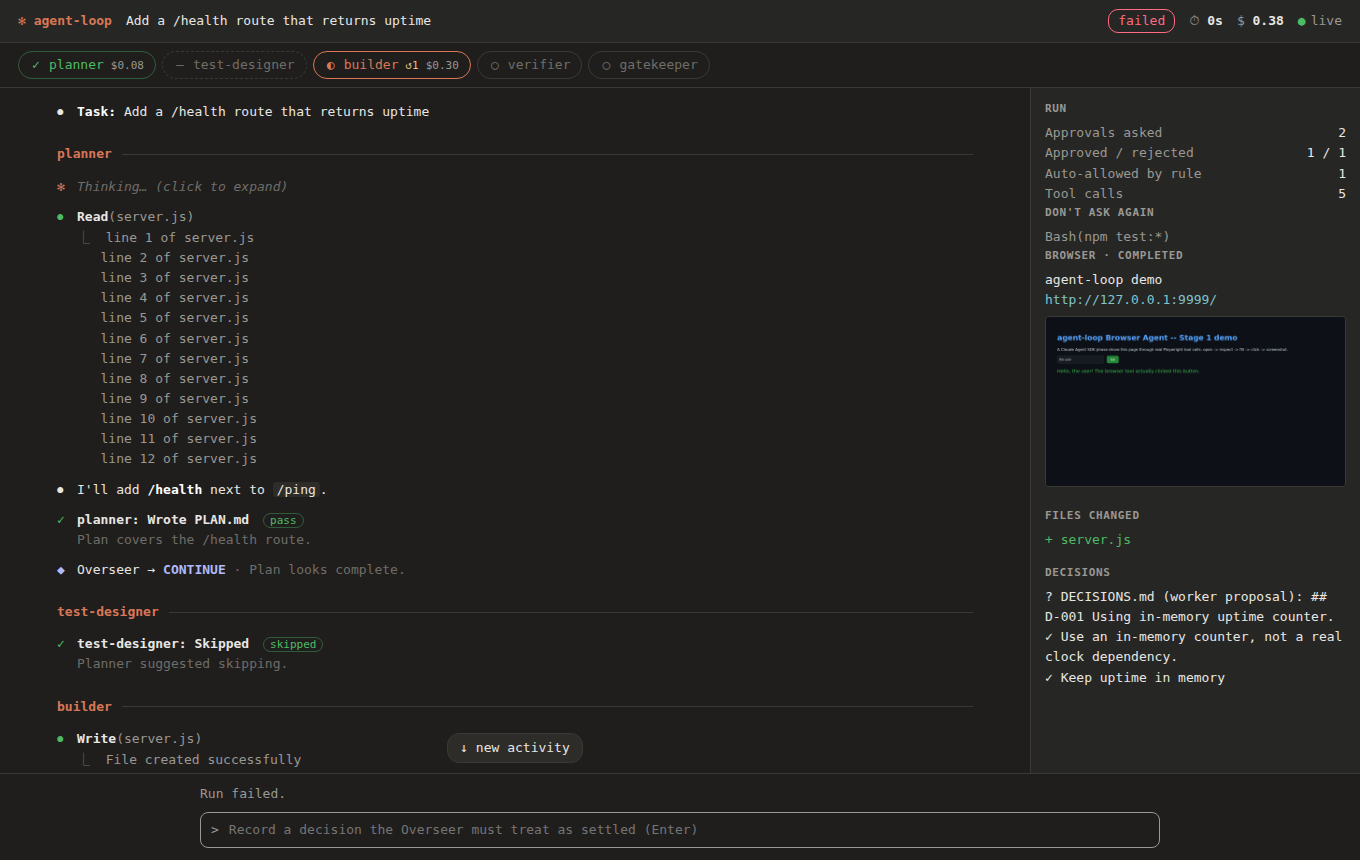
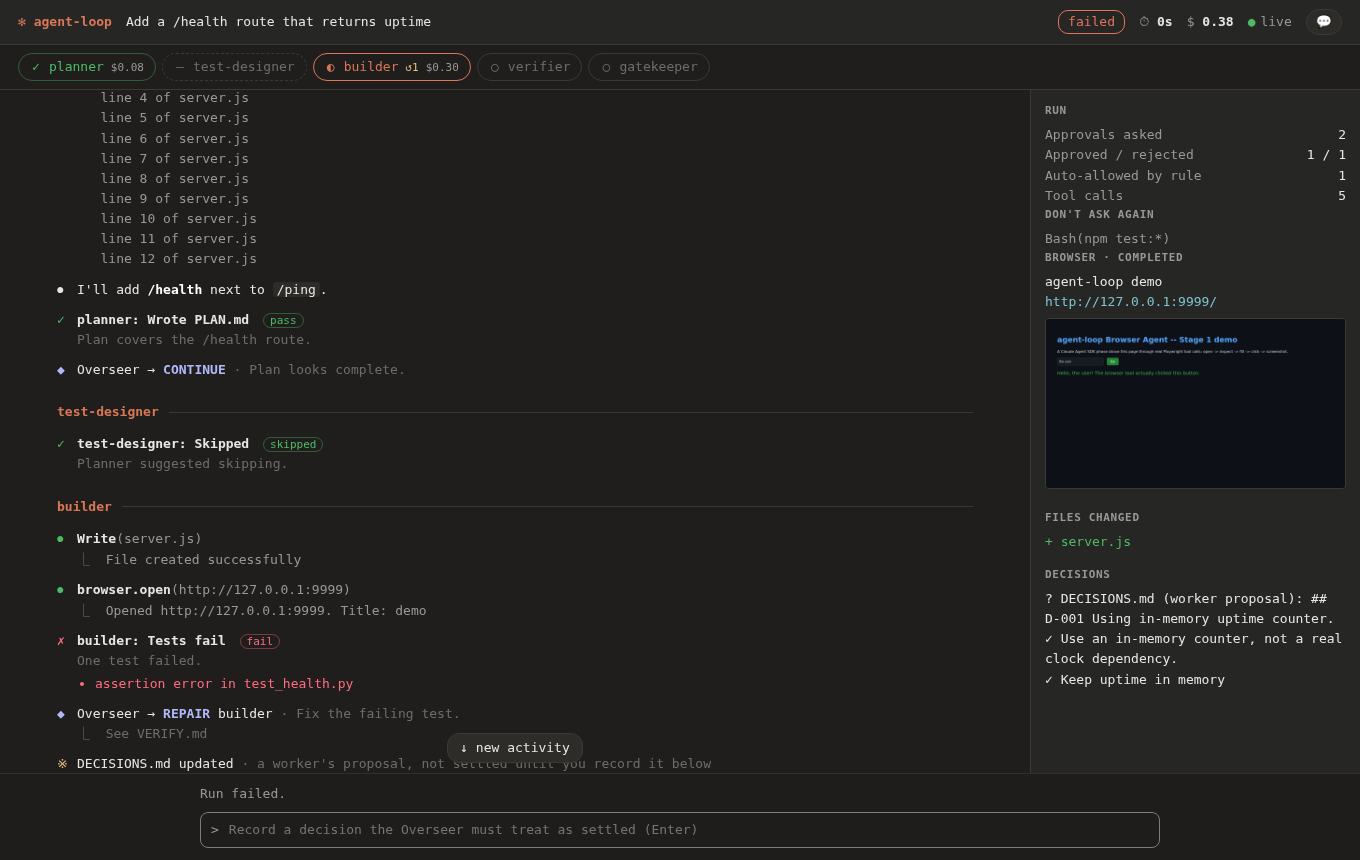
Add Desktop theme, smoother motion, and per-phase approval visibility
Three related additions to ui/index.html, all opt-in restyling and
new indicators on top of the existing dashboard -- same DOM, same
events, same behavior, no changes to src/terminal.ts or the pipeline:

- A second "Desktop" theme (light, rounded avatar-badge cards,
  sans-serif), toggled from the header and persisted per-browser in
  localStorage, via :root[data-theme="desktop"] CSS.
- Smoother motion throughout: new transcript blocks and the
  permission sheet ease in instead of popping, interactive elements
  transition instead of snapping, themes cross-fade. Respects
  prefers-reduced-motion. The permission dock is translucent and
  backdrop-blurred (macOS vibrancy) in both themes instead of a flat
  opaque bar.
- Which phase has an approval waiting is now visible without
  scrolling to the dock: a count badge on the stepper, a soft glow on
  the exact waiting tool-call line(s), and a per-phase breakdown in
  the dock's count line. Checked against pipeline.ts's actual control
  flow first -- phases run strictly sequentially, so only one phase
  can ever have pending approvals, but that phase can genuinely have
  several at once from real parallel tool calls, which the original
  demo screenshot didn't actually depict correctly (it showed two
  different phases waiting at once, which can't happen); corrected
  before documenting it. Also redone from an initial harsh bright-
  yellow outline to a soft glow in the accent color already used
  throughout, after review.
[…]

diff --git a/ui/index.html b/ui/index.html
@@ -46,6 +46,20 @@
   .step[data-state="skipped"] { color: var(--faint); border-style: dashed; }
   .step .badge { font-size: 11px; color: var(--yellow); }
   .step .cost { font-size: 11px; color: var(--dim); }
+  /* Which phase has an approval waiting is visible on the stepper itself, not just at the bottom
+     dock (which only ever shows one prompt at a time). Phases run strictly sequentially
+     (pipeline.ts awaits each one before starting the next), so this only ever lights up the single
+     active phase -- but that phase alone can have several calls waiting at once (real parallel tool
+     use in one assistant turn each fires its own approval-request before any of them resolve), and
+     the count badge is what actually surfaces that. Styled as a soft ambient glow in the same
+     accent color already used throughout, not a hard outline -- present enough to catch the eye,
+     quiet enough to sit next to five other steps without shouting. */
+  .step[data-waiting="1"] { animation: pulse-glow 2.2s ease-in-out infinite; }
+  .wait-badge {
+    display: inline-flex; align-items: center; justify-content: center; min-width: 14px; height: 14px;
+    padding: 0 3px; border-radius: 999px; background: var(--accent); color: #fff;
+    font-size: 10px; font-weight: 700; line-height: 1;
+  }
 
   /* body: transcript + side panel */
   .body { flex: 1; min-height: 0; display: flex; }
@@ -67,7 +81,7 @@
   @media (max-width: 1000px) { aside { display: none; } }
 
   /* transcript blocks */
-  .blk { margin: 0 0 10px; padding-left: 20px; position: relative; white-space: pre-wrap; word-break: break-word; }
+  .blk { margin: 0 0 10px; padding-left: 20px; position: relative; white-space: pre-wrap; word-break: break-word; animation: blk-in .2s ease-out; }
   .blk::before { position: absolute; left: 0; top: 0; }
   .blk.text::before { content: "⏺"; color: var(--text); }
   .blk.tool::before { content: "⏺"; color: var(--accent); }
@@ -108,10 +122,16 @@
   #jump { display: none; position: sticky; bottom: 10px; margin: 0 auto; width: max-content; padding: 4px 12px; border-radius: 12px; border: 1px solid var(--line); background: var(--panel-2); cursor: pointer; }
   #jump.show { display: block; }
 
-  /* bottom dock: permission prompt or status line + decision input */
-  #dock { flex: none; border-top: 1px solid var(--line); background: var(--bg); padding: 10px 22px 12px; }
+  /* bottom dock: permission prompt or status line + decision input. Translucent + blurred (macOS
+     sheet/vibrancy style) rather than a flat opaque bar, so it reads as floating over the transcript
+     instead of abruptly cutting it off when a prompt appears. */
+  #dock {
+    flex: none; padding: 10px 22px 12px;
+    background: rgba(31, 30, 29, .74); border-top: 1px solid rgba(255, 255, 255, .08);
+    backdrop-filter: blur(20px) saturate(1.4); -webkit-backdrop-filter: blur(20px) saturate(1.4);
+  }
   #dock .inner { max-width: 960px; margin: 0 auto; }
-  .prompt { border: 1px solid var(--blue); border-radius: 8px; padding: 10px 14px; }
+  .prompt { border: 1px solid var(--blue); border-radius: 8px; padding: 10px 14px; animation: sheet-in .22s cubic-bezier(.16,1,.3,1); }
   .prompt .title { color: var(--blue); font-weight: 700; }
   .prompt .count { color: var(--dim); float: right; }
   .prompt .body { margin: 8px 0; padding: 8px 10px; background: var(--panel); border-radius: 6px; max-height: 34vh; overflow: auto; white-space: pre-wrap; word-break: break-word; }
@@ -133,6 +153,97 @@
   input[type=text] { flex: 1; background: none; border: 0; outline: none; color: var(--text); font: inherit; }
   .inputrow:focus-within { border-color: var(--dim); }
   .smallbtn { background: var(--panel-2); border: 1px solid var(--line); border-radius: 6px; padding: 2px 10px; cursor: pointer; }
+  #theme-toggle { background: var(--panel-2); border: 1px solid var(--line); border-radius: 999px; padding: 2px 9px; cursor: pointer; font: inherit; }
+
+  /* ---------- "Desktop" theme: a lighter, Claude-Desktop-style chat-card look, opt-in via the
+     header toggle (persisted in localStorage). Overriding the color/font custom properties above
+     handles most of it for free, since body/header/stepper/aside/dock already read them; the rest
+     is restyling the transcript's flat "⏺ line" blocks into rounded avatar-badge cards. */
+  :root[data-theme="desktop"] {
+    color-scheme: light;
+    --bg: #f7f5f2; --panel: #ffffff; --panel-2: #efebe4; --line: #e6e0d6;
+    --text: #2b2924; --dim: #6e685d; --faint: #a39c8c;
+    --accent: #cc7c52; --green: #2f8f52; --red: #d64545; --yellow: #a9790a; --blue: #4f5fd1; --cyan: #1f8a92;
+    --mono: -apple-system, BlinkMacSystemFont, "Segoe UI", Inter, Helvetica, Arial, sans-serif;
+  }
+  :root[data-theme="desktop"] header { box-shadow: 0 1px 3px rgba(0,0,0,.05); }
+  :root[data-theme="desktop"] .brand { font-weight: 800; }
+  :root[data-theme="desktop"] #stepper { box-shadow: 0 1px 3px rgba(0,0,0,.04); }
+  :root[data-theme="desktop"] .step { border-radius: 999px; background: var(--panel-2); }
+  :root[data-theme="desktop"] .step[data-state="active"] { background: #fbe7dc; }
+  :root[data-theme="desktop"] .step[data-state="pass"] { background: #e5f4ea; }
+  :root[data-theme="desktop"] .step[data-state="fail"] { background: #fbe4e4; }
+  :root[data-theme="desktop"] #transcript { max-width: 760px; }
+  :root[data-theme="desktop"] .blk {
+    background: var(--panel); border: 1px solid var(--line); border-radius: 16px;
+    padding: 14px 16px 14px 48px; box-shadow: 0 1px 2px rgba(0,0,0,.03); margin-bottom: 14px;
+  }
+  :root[data-theme="desktop"] .blk::before {
+    top: 14px; left: 14px; width: 24px; height: 24px; border-radius: 50%;
+    display: flex; align-items: center; justify-content: center; font-size: 12px; line-height: 1;
+    background: var(--panel-2); color: var(--text);
+  }
+  :root[data-theme="desktop"] .blk.text::before { background: var(--accent); color: #fff; }
+  :root[data-theme="desktop"] .blk.tool::before { background: #eceeff; color: var(--blue); }
+  :root[data-theme="desktop"] .blk.tool.ok::before { background: #e5f4ea; color: var(--green); }
+  :root[data-theme="desktop"] .blk.tool.err::before, :root[data-theme="desktop"] .blk.tool.denied::before { background: #fbe4e4; color: var(--red); }
+  :root[data-theme="desktop"] .blk.verdict::before { background: #e5f4ea; color: var(--green); }
+  :root[data-theme="desktop"] .blk.verdict.fail::before { background: #fbe4e4; color: var(--red); }
+  :root[data-theme="desktop"] .blk.overseer::before { background: #eceeff; color: var(--blue); }
+  :root[data-theme="desktop"] .blk.note::before { background: #fbf1d8; color: var(--yellow); }
+  :root[data-theme="desktop"] .blk.trusted::before { background: #e5f4ea; color: var(--green); }
+  :root[data-theme="desktop"] .blk.thinking { background: transparent; border: none; box-shadow: none; padding: 0 0 0 30px; }
+  :root[data-theme="desktop"] .blk.thinking::before { position: absolute; background: none; width: auto; height: auto; border-radius: 0; top: 0; left: 0; font-size: 14px; }
+  :root[data-theme="desktop"] .blk.run-end { padding: 14px 18px; }
+  :root[data-theme="desktop"] .out { background: var(--panel-2); border-radius: 10px; padding: 8px 10px; margin-top: 6px; }
+  :root[data-theme="desktop"] .tag { border-radius: 999px; }
+  :root[data-theme="desktop"] #dock {
+    background: rgba(247, 245, 242, .55); border-top: 1px solid rgba(0, 0, 0, .05);
+    backdrop-filter: blur(16px) saturate(1.5); -webkit-backdrop-filter: blur(16px) saturate(1.5);
+  }
+  :root[data-theme="desktop"] .prompt {
+    border: 1px solid rgba(0, 0, 0, .06); border-radius: 18px;
+    background: rgba(255, 255, 255, .72); box-shadow: 0 8px 30px rgba(0, 0, 0, .12);
+    backdrop-filter: blur(20px) saturate(1.6); -webkit-backdrop-filter: blur(20px) saturate(1.6);
+  }
+  :root[data-theme="desktop"] .prompt .body { background: rgba(239, 235, 228, .75); }
+  :root[data-theme="desktop"] .opt { border-radius: 10px; padding: 6px 10px 6px 26px; }
+  :root[data-theme="desktop"] .opt:hover, :root[data-theme="desktop"] .opt.sel { background: var(--panel-2); }
+  :root[data-theme="desktop"] .inputrow { border-radius: 999px; background: var(--panel); box-shadow: 0 1px 3px rgba(0,0,0,.06); border-color: transparent; }
+  :root[data-theme="desktop"] aside { border-left: none; box-shadow: -1px 0 3px rgba(0,0,0,.03); }
+
+  /* ---------- motion: smooth without being distracting. New blocks and the permission sheet ease
+     in instead of popping; interactive elements transition instead of snapping; switching themes
+     cross-fades the colors instead of flashing. All of it collapses to nothing for anyone who's
+     asked their OS for reduced motion. */
+  @keyframes blk-in { from { opacity: 0; transform: translateY(4px); } to { opacity: 1; transform: translateY(0); } }
+  @keyframes sheet-in { from { opacity: 0; transform: translateY(10px) scale(.98); } to { opacity: 1; transform: translateY(0) scale(1); } }
+  @keyframes pulse-glow { 0%, 100% { box-shadow: 0 0 0 0 rgba(217, 119, 87, 0); } 50% { box-shadow: 0 0 10px 1px rgba(217, 119, 87, .38); } }
+  .step[data-waiting="1"] { border-color: var(--accent); }
+  /* The exact tool call a pending approval is for, highlighted in the transcript -- not just the
+     stepper badge and the bottom dock, so it's unambiguous which line an approval belongs to even
+     with several tool calls on screen. A thin accent-colored bar that gently breathes, not a ring
+     around the whole line -- present, not loud. */
+  .blk.tool.awaiting { animation: blk-in .2s ease-out, pulse-glow-blk 2.2s ease-in-out infinite; }
+  @keyframes pulse-glow-blk { 0%, 100% { box-shadow: -2px 0 0 0 rgba(217, 119, 87, .5); } 50% { box-shadow: -2px 0 8px 1px rgba(217, 119, 87, .38); } }
+  html { transition: background-color .25s ease; }
+  body, header, #stepper, aside, #dock, .step, .blk, .tag, .opt, .smallbtn, #theme-toggle,
+  #run-state, .inputrow, #jump {
+    transition: background-color .2s ease, border-color .2s ease, color .2s ease, box-shadow .2s ease;
+  }
+  .step, .opt, .smallbtn, #theme-toggle, #jump, button {
+    transition: background-color .15s ease, color .15s ease, border-color .15s ease, transform .1s ease;
+  }
+  .step:hover { transform: translateY(-1px); }
+  .opt:active, .smallbtn:active, #theme-toggle:active { transform: scale(.96); }
+  #theme-toggle { transition: background-color .15s ease, transform .15s ease, opacity .15s ease; }
+  #theme-toggle:hover { opacity: .85; }
+  @media (prefers-reduced-motion: reduce) {
+    *, *::before, *::after {
+      animation-duration: .001ms !important; animation-iteration-count: 1 !important;
+      transition-duration: .001ms !important; scroll-behavior: auto !important;
+    }
+  }
 </style>
 </head>
 <body>
@@ -143,6 +254,7 @@
   <span class="stat">⏱ <b id="elapsed">0s</b></span>
   <span class="stat">$ <b id="cost">0.00</b></span>
   <span id="status">connecting…</span>
+  <button id="theme-toggle" type="button" title="Switch look">💬</button>
 </header>
 <nav id="stepper"></nav>
 <div class="body">
@@ -251,7 +363,11 @@ function renderStepper() {
     const icon = { pending: "○", active: "◐", pass: "✓", fail: "✗", skipped: "–" }[st];
     const reps = state.repairs[p] ? '<span class="badge">↺' + state.repairs[p] + "</span>" : "";
     const cost = state.phaseCost[p] ? '<span class="cost">$' + state.phaseCost[p].toFixed(2) + "</span>" : "";
-    return '<button class="step" data-phase="' + p + '" data-state="' + st + '"><span class="icon">' + icon + "</span>" + p + reps + cost + "</button>";
+    // A phase with an approval waiting gets its own badge on the stepper -- which agent needs you
+    // should be visible at a glance, not just at the bottom dock (which only ever shows one at a time).
+    const waitingHere = state.pending.filter((x) => x.phase === p).length;
+    const flag = waitingHere ? '<span class="wait-badge" title="' + waitingHere + " approval" + (waitingHere > 1 ? "s" : "") + ' waiting">' + (waitingHere > 1 ? waitingHere : "!") + "</span>" : "";
+    return '<button class="step" data-phase="' + p + '" data-state="' + st + '"' + (waitingHere ? ' data-waiting="1"' : "") + '><span class="icon">' + icon + "</span>" + p + reps + cost + flag + "</button>";
   }).join("");
 }
 $("stepper").addEventListener("click", (e) => {
@@ -338,9 +454,18 @@ function renderDock() {
     ["deny", "No, and tell the agent what to do differently <span class=\"k\">(esc)</span>"],
   ];
   state.sel = Math.min(state.sel, opts.length - 1);
+  // Break the queue down by phase, not just a bare count. In practice this is almost always one
+  // phase repeated (phases run strictly sequentially, so the queue is never split across phases;
+  // it's parallel tool calls within the one active phase that stack up, e.g. "3 waiting —
+  // builder ×3"), but naming it -- rather than a bare "1 of 3" -- makes that fact visible instead
+  // of implied, and the grouped form still reads correctly on the rare multi-phase edge case too.
+  const phaseCounts = {};
+  for (const p of state.pending) phaseCounts[p.phase] = (phaseCounts[p.phase] || 0) + 1;
+  const breakdown = Object.entries(phaseCounts).map(([ph, n]) => ph + (n > 1 ? " ×" + n : "")).join(", ");
+  const countLabel = state.pending.length > 1 ? state.pending.length + " waiting — " + breakdown : "";
   dockInner.innerHTML =
     '<div class="prompt" id="prompt" data-request="' + esc(ev.requestId) + '">' +
-    '<span class="count">' + (state.pending.length > 1 ? "1 of " + state.pending.length + " waiting" : "") + "</span>" +
+    '<span class="count">' + esc(countLabel) + "</span>" +
     '<div class="title">' + esc(title) + '</div><div class="body">' + body + "</div>" +
     '<div class="why">' + esc(ev.phase) + " wants to run this" + (ev.rule ? "" : " · chained/complex command: will ask every time") + "</div>" +
     '<div class="q">Do you want to proceed?</div>' +
@@ -378,6 +503,9 @@ document.addEventListener("keydown", (e) => {
 function toolBlock(id) { return state.tools.get(id); }
 function tagTool(id, cls, text) {
   const t = toolBlock(id); if (!t) return;
+  // The exact call waiting on you gets its own pulsing highlight in the transcript, not just the
+  // stepper badge -- easy to spot the one that matters even when you're scrolled away from the dock.
+  t.classList.toggle("awaiting", cls === "wait");
   let tag = t.querySelector(".tag"); if (!tag) { tag = document.createElement("span"); t.querySelector(".line").appendChild(tag); }
   tag.className = "tag " + cls; tag.textContent = text;
 }
@@ -529,6 +657,20 @@ function resetForReplay() {
   transcript.innerHTML = ""; state.tools.clear(); state.files.clear();
   Object.assign(state, { phaseState: {}, phaseCost: {}, repairs: {}, pending: [], cost: 0, asked: 0, approved: 0, rejected: 0, auto: 0, toolCount: 0, rules: [], decisions: [], live: false });
 }
+// ---------- theme: dark terminal-style (default) or a lighter "Desktop" chat-card look
+const THEME_KEY = "agent-loop-theme";
+function applyTheme(t) {
+  document.documentElement.dataset.theme = t;
+  try { localStorage.setItem(THEME_KEY, t); } catch {}
+  const btn = $("theme-toggle");
+  btn.textContent = t === "desktop" ? "🖥" : "💬";
+  btn.title = t === "desktop" ? "Switch to terminal look" : "Switch to Desktop look";
+}
+let savedTheme = "terminal";
+try { savedTheme = localStorage.getItem(THEME_KEY) || "terminal"; } catch {}
+applyTheme(savedTheme);
+$("theme-toggle").onclick = () => applyTheme(document.documentElement.dataset.theme === "desktop" ? "terminal" : "desktop");
+
 renderStepper(); renderHeader();
 if (REPLAY) {
   $("status").textContent = "saved report";

diff --git a/docs/UI.md b/docs/UI.md
@@ -76,13 +76,21 @@ know for "an agent is working, and sometimes needs a yes/no from me."
   goes back to the agent as the reason. `Write` shows the file as `+` lines and `Edit` shows
   `-`/`+`. The tab title shows `(1) approval needed`.
 - **A phase stepper**, `planner ✓ $0.06 · test-designer – · builder ◐ ↺1 · verifier ○ ·
-  gatekeeper ○`, shows each phase's state, cost and repair count. Click a step to jump to it.
+  gatekeeper ○`, shows each phase's state, cost and repair count. Click a step to jump to it. When a
+  phase has an approval waiting it gets a count badge and a soft accent glow -- real parallel tool
+  calls can leave several waiting on the *same* phase at once (phases themselves run strictly
+  sequentially, so two different phases never both have something pending), and each of those exact
+  tool-call lines gets the same glow in the transcript so it's unambiguous which one an approval is
+  for. See `docs/screenshots/approval-ui/07-multiple-pending-approvals.png`.
 - **The header** shows the task, run status, elapsed time, total cost and connection state.
 - **A side panel** shows approval counts, saved "don't ask again" rules, the live browser (page
   title, URL, latest screenshot), files changed, and decisions (worker proposals vs. ones you
   recorded).
 - **The bottom input** takes a trusted decision whenever nothing is waiting: type it and press
   Enter.
+- **A theme toggle** in the header switches between this dark, Claude-Code-terminal-style look (the
+  default) and a lighter "Desktop" theme — rounded avatar-badge cards, sans-serif type — without
+  changing any of the underlying data or behavior. Persisted per-browser in `localStorage`.
 
 ![New UI, real run](screenshots/approval-ui/04-after-real-run.png)
 
@@ -125,6 +133,17 @@ What never becomes a rule, and always asks:
 ones. Two of those adversarial cases were real holes found while building this: `cat $F` would have
 produced a rule matching whatever `$F` held, and `python3 -O -c "…"` would have produced
 `Bash(python3 -O:*)`, allowing any inline Python after `-O`. Both are closed and tested.
+
+### Two looks for the same dashboard
+
+The default theme is styled after Claude Code's own terminal UI on purpose — see above. Clicking the
+header's toggle switches to a lighter "Desktop" theme instead: the same events, the same DOM, the
+same behavior, just restyled into rounded avatar-badge cards on a light background instead of flat
+monospace lines on dark. Nothing about what data is shown or how approvals work changes between the
+two; it's a CSS skin (`:root[data-theme="desktop"]` in `ui/index.html`), not a second
+implementation, and the choice is remembered per-browser in `localStorage`.
+
+![The same dashboard in the Desktop theme](screenshots/approval-ui/06-desktop-theme.png)
 
 ### The terminal is a real interface too
 

diff --git a/CHANGELOG.md b/CHANGELOG.md
@@ -33,6 +33,27 @@ All notable changes to this project are documented here. Format follows
 - **`npm test`** and **CI** (`.github/workflows/test.yml`) run all 11 no-API suites, including real
   Chromium.
 - **`test/e2e/record-run.mjs`**: records a real run as video plus per-phase screenshots and a summary.
+- **A second "Desktop" theme for the run UI**, toggled from the header (persisted per-browser in
+  `localStorage`): the same DOM, the same events, the same behavior as the default dark
+  Claude-Code-terminal-style dashboard, just restyled -- light background, rounded avatar-badge
+  transcript cards, sans-serif type -- via `:root[data-theme="desktop"]` CSS in `ui/index.html`, not
+  a second implementation. Screenshot: `docs/screenshots/approval-ui/06-desktop-theme.png`.
+- **Smoother motion throughout the UI**: new transcript blocks and the permission sheet ease in
+  instead of popping in instantly; interactive elements (steps, options, buttons) transition instead
+  of snapping; switching themes cross-fades colors. All of it collapses under
+  `prefers-reduced-motion: reduce`. The permission dock/sheet is also translucent and
+  backdrop-blurred in both themes (a macOS vibrancy look) instead of a flat opaque bar, so it reads
+  as floating over the transcript rather than abruptly cutting it off when a prompt appears.
+- **Which phase has an approval waiting is now visible without scrolling to the bottom dock.**
+  Checked against `pipeline.ts`'s own control flow first (phases run strictly sequentially -- each
+  one is `await`ed before the next starts -- so two *different* phases can never both have a pending
+  approval; only real parallel tool calls within the *same* phase can leave several waiting at once).
+  The active phase gets a count badge on the stepper, the exact tool-call line(s) get a soft
+  accent-colored glow in the transcript, and the dock names the breakdown ("3 waiting — builder
+  ×3") instead of a bare "1 of 3". Initially built with a harsh bright-yellow outline; redone in the
+  same clay/orange accent already used for the brand mark and active-phase state, as a soft ambient
+  glow rather than a hard ring, after review. Screenshot:
+  `docs/screenshots/approval-ui/07-multiple-pending-approvals.png`.
 
 ### Fixed
 - The screenshot tool's base64 image data was dumped into the transcript, the log index and every

diff --git a/docs/screenshots/INDEX.md b/docs/screenshots/INDEX.md
@@ -27,6 +27,8 @@ Screenshots of the run UI (`ui/index.html`). See [`docs/UI.md`](../UI.md) for th
 | `03-before-real-run.png` | The **old** UI mid-way through a real run (todo app, `--browser`): raw verdict JSON, one card per event, no progress, cost or pending indicator. |
 | `04-after-real-run.png` | The **new** UI from a real run of the same task, showing the `browser.screenshot()` result after two leaks found by later adversarial review were fixed: the raw base64 image data (now `[image]`) and the tool's full local filesystem path (now just the filename) — see `docs/LEAK-REVIEW-ui-video.md`. Regenerated 2026-09-28; the original version of this file showed both bugs. |
 | `05-saved-report-with-agent-video.png` | A real run's saved `report.html` opened from disk: all phases green with per-phase cost, and the agent's own recorded browser session. |
+| `06-desktop-theme.png` | The same synthetic sequence as `01`/`02`, after clicking the header's theme toggle: the opt-in "Desktop" theme (light, rounded avatar-badge cards, sans-serif) instead of the default dark terminal look. The permission sheet is translucent and backdrop-blurred (macOS vibrancy style) rather than a flat opaque bar -- visible here in the blurred card edge behind it. Persisted per-browser in `localStorage`; the default theme and all other screenshots here are unaffected. |
+| `07-multiple-pending-approvals.png` | Three tool calls from one assistant turn (real parallel tool use) all awaiting approval at once, all in `builder` -- checked against `pipeline.ts`'s own control flow first: phases run strictly sequentially, so two *different* phases can never both have something pending, but one phase legitimately can have several. The active phase gets a count badge on the stepper, each waiting call gets a soft accent-colored glow in the transcript (not a full outline), and the dock names the breakdown ("3 waiting — builder ×3"). Same clay/orange accent used for the brand mark and active phase, not a separate alarm color. |
 
 ## ../media/
 
